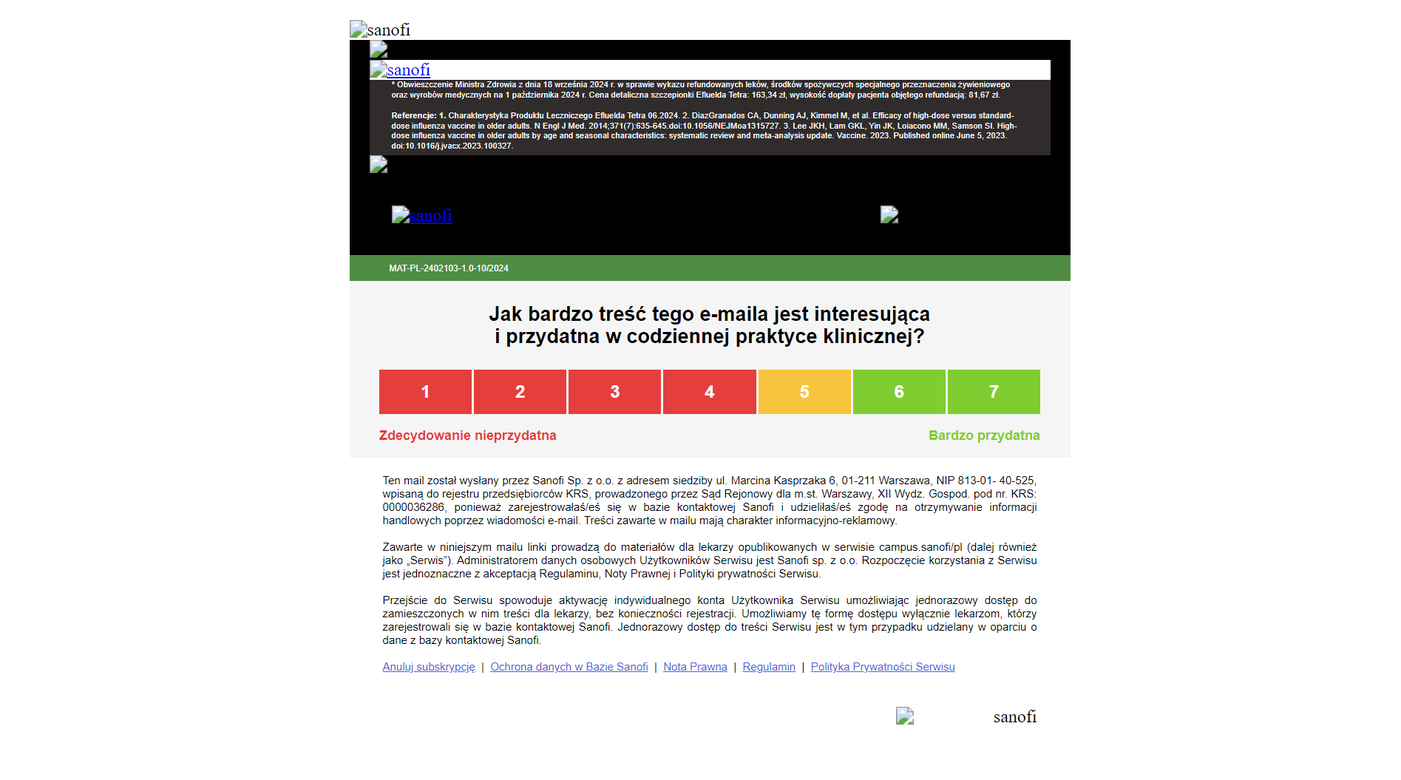
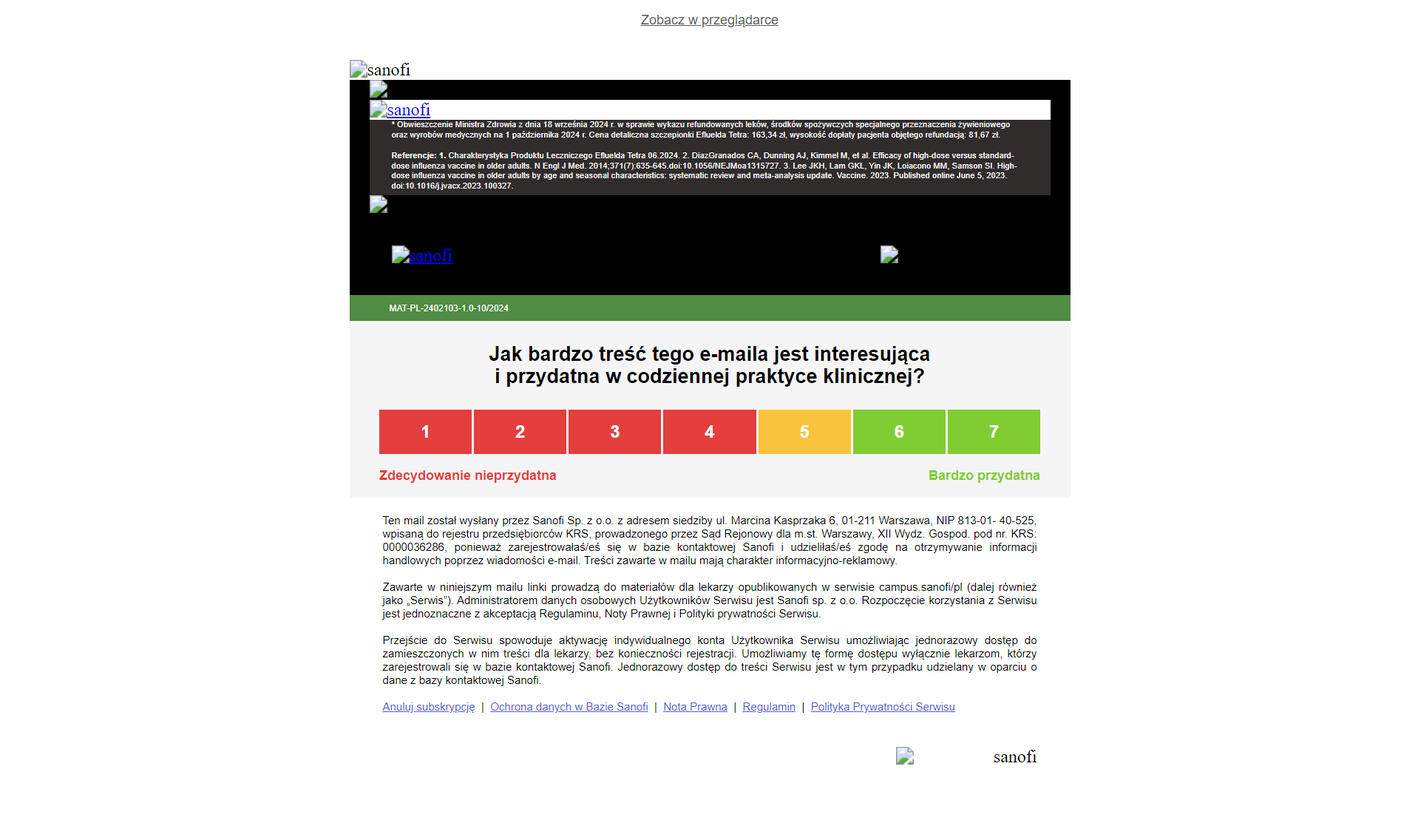
cfg changed

Changed region(s): [[0.2491, 0.0, 0.7784, 0.5763], [0.2491, 0.6066, 0.7472, 0.9403], [0.7161, 0.8796, 0.7472, 0.9403]]

diff --git a/export/index.html b/export/index.html
@@ -1,1 +1,40 @@
-<!DOCTYPE html><html><head><title>C05860_EflueldaTetra_24proc_mniej_przypadków_grypy_os_starsze_HQ</title><meta charset="utf-8"></head><body><!--[if (gte mso 9)(IE)]><center><table><tr><td width="650"><![endif]--><table width="650" border="0" cellpadding="0" cellspacing="0" style="margin: 0 auto"><tr><td><table width="650" border="0" cellpadding="0" cellspacing="0" style="margin: 0 auto" bgcolor="#ffffff"><tr><td width="30" height="10"></td><td style="font-family: Arial, Helvetica, sans-serif;text-align: justify; font-size:12px; font-weight: normal; color: #ffffff;"></td><td width="30"></td></tr></table><table width="650" border="0" cellpadding="0" cellspacing="0" style="margin: 0 auto" bgcolor="#FFFFFF"><tr> <td width="650"><img src="./images/top.jpg" alt="sanofi" title="sanofi" width="650" style="display: block; margin: 0; border: 0;"/></td></tr></table><table width="650" border="0" cellpadding="0" cellspacing="0" style="margin: 0 auto" bgcolor="#000000"><tr> <td width="18" bgcolor="#000000"></td><td width="614"><img src="./images/ramka.png" alt="sanofi" title="sanofi" width="614" style="display: block; margin: 0; border: 0;"/></td><td width="18" bgcolor="#000000"></td></tr></table><table width="650" border="0" cellpadding="0" cellspacing="0" style="margin: 0 auto" bgcolor="#FFFFFF"><tr> <td width="18" bgcolor="#000000"></td><td width="614"><a href="https://www.campus.sanofi/pl" target="blank"><img src="./images/button.png" alt="sanofi" title="sanofi" width="614" style="display: block; margin: 0; border: 0;"/></a></td><td width="18" bgcolor="#000000"></td></tr></table><table width="650" border="0" cellpadding="0" cellspacing="0" style="margin: 0 auto" bgcolor="#302c2c"><tr> <td width="18" bgcolor="#000000"></td><td width="20" bgcolor="#302c2c"></td><td width="574" style="color: white; font-family: Arial, sans-serif; font-size: 7.5px; line-height: 9px;">* Obwieszczenie Ministra Zdrowia z dnia 18 września 2024 r. w sprawie wykazu refundowanych leków, środków spożywczych specjalnego przeznaczenia żywieniowego oraz wyrobów medycznych na 1 października 2024 r. Cena detaliczna szczepionki Efluelda Tetra: 163,34 zł, wysokość dopłaty pacjenta objętego refundacją: 81,67 zł.</td><td width="20" bgcolor="#302c2c"></td><td width="18" bgcolor="#000000"></td></tr></table><table width="650" border="0" cellpadding="0" cellspacing="0" style="margin: 0 auto" bgcolor="#302c2c"><tr><td width="18" bgcolor="#000000"></td><td height="10"> </td><td width="18" bgcolor="#000000"></td></tr></table><table width="650" border="0" cellpadding="0" cellspacing="0" style="margin: 0 auto" bgcolor="#302c2c"><tr> <td width="18" bgcolor="#000000"></td><td width="20" bgcolor="#302c2c"></td><td width="574" style="color: white; font-family: Arial, sans-serif; font-size: 7.5px; line-height: 9px;"><b>Referencje: 1.</b> Charakterystyka Produktu Leczniczego Efluelda Tetra 06.2024. 2. DiazGranados CA, Dunning AJ, Kimmel M, et al. Efficacy of high-dose versus standard-<br>dose influenza vaccine in older adults. N Engl J Med. 2014;371(7):635-645.doi:10.1056/NEJMoa1315727. 3. Lee JKH, Lam GKL, Yin JK, Loiacono MM, Samson SI. High-<br>dose influenza vaccine in older adults by age and seasonal characteristics: systematic review and meta-analysis update. Vaccine. 2023. Published online June 5,&nbsp;2023. doi:10.1016/j.jvacx.2023.100327.</td><td width="20" bgcolor="#302c2c"></td><td width="18" bgcolor="#000000"></td></tr><tr><td width="18" bgcolor="#000000"></td><td width="20" bgcolor="#302c2c"></td><td width="574" height="4"> </td><td width="20" bgcolor="#302c2c"></td><td width="18" bgcolor="#000000"></td></tr></table><table width="650" border="0" cellpadding="0" cellspacing="0" style="margin: 0 auto" bgcolor="#000000"><tr> <td width="18" bgcolor="#000000"></td><td width="614"><img src="./images/ramk_dol.png" alt="sanofi" title="sanofi" width="614" style="display: block; margin: 0; border: 0;"/></td><td width="18" bgcolor="#000000"></td></tr></table><table width="650" border="0" cellpadding="0" cellspacing="0" style="margin: 0 auto" bgcolor="#000000"><tr> <td height="27"></td></tr></table><table width="650" border="0" cellpadding="0" cellspacing="0" style="margin: 0 auto" bgcolor="#000000"><tr> <td width="38"></td><td width="271"><a href="https://dev.sparkwarsaw.pl/sil-manager/preview/2y13ajNN9sYeG5jUJHWzOo3u5rr6vkUlCRSICxResA9yvojFXBrC" target="blank"><img src="./images/button2.png" alt="sanofi" title="sanofi" width="271" style="display: block; margin: 0; border: 0;"/></a></td><td width="170"></td><td width="144"><img src="./images/logo_white.png" alt="sanofi" title="sanofi" width="144" style="display: block; margin: 0; border: 0;"/></td><td width="27"></td></tr></table><table width="650" border="0" cellpadding="0" cellspacing="0" style="margin: 0 auto" bgcolor="#000000"><tr> <td height="27"></td></tr></table><table width="650" border="0" cellpadding="0" cellspacing="0" style="margin: 0 auto" bgcolor="#508c44"><tr><td height="7"></td><td></td></tr><tr> <td width="36"></td><td width="614" style="font-family:ArialMT,Helvetica,sans-serif; font-size:8px; text-align:left; color:#FFFFFF"><span>MAT-PL-2402103-1.0-10/2024</span></td></tr></table><table width="650" border="0" cellpadding="0" cellspacing="0" style="margin: 0 auto" bgcolor="#508c44"><tr><td height="7" bgcolor="#508c44"></td><td></td></tr></table><table width="650" border="0" cellpadding="0" cellspacing="0" style="margin: 0 auto" bgcolor="#F5F5F5"><tr> <td><table width="100%" border="0" cellpadding="0" cellspacing="0" bgcolor="#F5F5F5" style="margin: 0 auto"><tr><td height="20"></td></tr><tr><td valign="top" style="margin-left:auto; margin-right:auto; text-align:center; font-size: 18px; line-height: 20px; font-family:Arial, Helvetica, Verdana, sans-serif; color: #000000; font-weight: bold;"><span>Jak bardzo treść tego e-maila jest interesująca<br>i przydatna w codziennej praktyce klinicznej?</span></td></tr><tr><td height="20"></td></tr></table><table class="survey" width="100%" border="0" cellpadding="0" cellspacing="0" style="margin-left:auto; margin-right:auto; text-align:left; font-size: 16px; line-height: 19px; font-family:Arial, Helvetica, Verdana, sans-serif; color: #000000;"><tr><td width="27"></td><td><table class="survey" width="100%" border="0" cellpadding="0" cellspacing="0" style="font-family: Arial, Helvetica, sans-serif; font-weight: normal;width:100%;"><tr><td style="width:14%;min-width:25px"><a href="https://dta.eu.qualtrics.com/jfe/form/SV_02HIRZB8on1Cf7U?Country=PL&Q_Language=PL&TA={{User.SA_Department__c}}&utm_hcpid={{Account.Account_Identifier_vod__c}}&User={{User.EmployeeNumber}}&Function={{User.SA_Visibility__c}}&Brand={{Approved_Document_vod__c.Product_vod__r.Name}}&CN={{Approved_Document_vod__c.Name}}&Document_ID={{Approved_Document_vod__c.Document_Description_vod__c}}&Region={{User.Primary_Territory_vod__c}}&DA={{Approved_Document_vod__c.Detail_Group_vod__r.Name}}&amp;R=1"></a><table width="100%" border="0" cellpadding="0" cellspacing="0"><tr><td style="text-align:center" align="center" height="40" bgcolor="#E43E3D" width="100%"><a href="https://dta.eu.qualtrics.com/jfe/form/SV_02HIRZB8on1Cf7U?Country=PL&Q_Language=PL&TA={{User.SA_Department__c}}&utm_hcpid={{Account.Account_Identifier_vod__c}}&User={{User.EmployeeNumber}}&Function={{User.SA_Visibility__c}}&Brand={{Approved_Document_vod__c.Product_vod__r.Name}}&CN={{Approved_Document_vod__c.Name}}&Document_ID={{Approved_Document_vod__c.Document_Description_vod__c}}&Region={{User.Primary_Territory_vod__c}}&DA={{Approved_Document_vod__c.Detail_Group_vod__r.Name}}&amp;R=1" style="font-weight: bold; font-family:sans-serif; text-decoration: none; line-height:40px; width:100%;min-width:25px; display:inline-block;color: #ffffff">1</a></td></tr></table></td><td style="width: 2px;"></td><td style="width:14%;min-width:25px"><a href="https://dta.eu.qualtrics.com/jfe/form/SV_02HIRZB8on1Cf7U?Country=PL&Q_Language=PL&TA={{User.SA_Department__c}}&utm_hcpid={{Account.Account_Identifier_vod__c}}&User={{User.EmployeeNumber}}&Function={{User.SA_Visibility__c}}&Brand={{Approved_Document_vod__c.Product_vod__r.Name}}&CN={{Approved_Document_vod__c.Name}}&Document_ID={{Approved_Document_vod__c.Document_Description_vod__c}}&Region={{User.Primary_Territory_vod__c}}&DA={{Approved_Document_vod__c.Detail_Group_vod__r.Name}}&amp;R=2"></a><table width="100%" border="0" cellpadding="0" cellspacing="0"><tr><td style="text-align:center" align="center" height="40" bgcolor="#E43E3D" width="100%"><a href="https://dta.eu.qualtrics.com/jfe/form/SV_02HIRZB8on1Cf7U?Country=PL&Q_Language=PL&TA={{User.SA_Department__c}}&utm_hcpid={{Account.Account_Identifier_vod__c}}&User={{User.EmployeeNumber}}&Function={{User.SA_Visibility__c}}&Brand={{Approved_Document_vod__c.Product_vod__r.Name}}&CN={{Approved_Document_vod__c.Name}}&Document_ID={{Approved_Document_vod__c.Document_Description_vod__c}}&Region={{User.Primary_Territory_vod__c}}&DA={{Approved_Document_vod__c.Detail_Group_vod__r.Name}}&amp;R=2" style="font-weight: bold; font-family:sans-serif; text-decoration: none; line-height:40px; width:100%;min-width:25px; display:inline-block;color: #ffffff">2</a></td></tr></table></td><td style="width: 2px;"></td><td style="width:14%;min-width:25px"><a href="https://dta.eu.qualtrics.com/jfe/form/SV_02HIRZB8on1Cf7U?Country=PL&Q_Language=PL&TA={{User.SA_Department__c}}&utm_hcpid={{Account.Account_Identifier_vod__c}}&User={{User.EmployeeNumber}}&Function={{User.SA_Visibility__c}}&Brand={{Approved_Document_vod__c.Product_vod__r.Name}}&CN={{Approved_Document_vod__c.Name}}&Document_ID={{Approved_Document_vod__c.Document_Description_vod__c}}&Region={{User.Primary_Territory_vod__c}}&DA={{Approved_Document_vod__c.Detail_Group_vod__r.Name}}&amp;R=3"></a><table width="100%" border="0" cellpadding="0" cellspacing="0"><tr><td style="text-align:center" align="center" height="40" bgcolor="#E43E3D" width="100%"><a href="https://dta.eu.qualtrics.com/jfe/form/SV_02HIRZB8on1Cf7U?Country=PL&Q_Language=PL&TA={{User.SA_Department__c}}&utm_hcpid={{Account.Account_Identifier_vod__c}}&User={{User.EmployeeNumber}}&Function={{User.SA_Visibility__c}}&Brand={{Approved_Document_vod__c.Product_vod__r.Name}}&CN={{Approved_Document_vod__c.Name}}&Document_ID={{Approved_Document_vod__c.Document_Description_vod__c}}&Region={{User.Primary_Territory_vod__c}}&DA={{Approved_Document_vod__c.Detail_Group_vod__r.Name}}&amp;R=3" style="font-weight: bold; font-family:sans-serif; text-decoration: none; line-height:40px; width:100%;min-width:25px; display:inline-block;color: #ffffff">3</a></td></tr></table></td><td style="width: 2px;"></td><td style="width:14%;min-width:25px"><a href="https://dta.eu.qualtrics.com/jfe/form/SV_02HIRZB8on1Cf7U?Country=PL&Q_Language=PL&TA={{User.SA_Department__c}}&utm_hcpid={{Account.Account_Identifier_vod__c}}&User={{User.EmployeeNumber}}&Function={{User.SA_Visibility__c}}&Brand={{Approved_Document_vod__c.Product_vod__r.Name}}&CN={{Approved_Document_vod__c.Name}}&Document_ID={{Approved_Document_vod__c.Document_Description_vod__c}}&Region={{User.Primary_Territory_vod__c}}&DA={{Approved_Document_vod__c.Detail_Group_vod__r.Name}}&amp;R=4"></a><table width="100%" border="0" cellpadding="0" cellspacing="0"><tr><td style="text-align:center" align="center" height="40" bgcolor="#E43E3D" width="100%"><a href="https://dta.eu.qualtrics.com/jfe/form/SV_02HIRZB8on1Cf7U?Country=PL&Q_Language=PL&TA={{User.SA_Department__c}}&utm_hcpid={{Account.Account_Identifier_vod__c}}&User={{User.EmployeeNumber}}&Function={{User.SA_Visibility__c}}&Brand={{Approved_Document_vod__c.Product_vod__r.Name}}&CN={{Approved_Document_vod__c.Name}}&Document_ID={{Approved_Document_vod__c.Document_Description_vod__c}}&Region={{User.Primary_Territory_vod__c}}&DA={{Approved_Document_vod__c.Detail_Group_vod__r.Name}}&amp;R=4" style="font-weight: bold; font-family:sans-serif; text-decoration: none; line-height:40px; width:100%;min-width:25px; display:inline-block;color: #ffffff">4</a></td></tr></table></td><td style="width: 2px;"></td><td style="width:14%;min-width:25px"><a href="https://dta.eu.qualtrics.com/jfe/form/SV_02HIRZB8on1Cf7U?Country=PL&Q_Language=PL&TA={{User.SA_Department__c}}&utm_hcpid={{Account.Account_Identifier_vod__c}}&User={{User.EmployeeNumber}}&Function={{User.SA_Visibility__c}}&Brand={{Approved_Document_vod__c.Product_vod__r.Name}}&CN={{Approved_Document_vod__c.Name}}&Document_ID={{Approved_Document_vod__c.Document_Description_vod__c}}&Region={{User.Primary_Territory_vod__c}}&DA={{Approved_Document_vod__c.Detail_Group_vod__r.Name}}&amp;R=5"></a><table width="100%" border="0" cellpadding="0" cellspacing="0"><tr><td style="text-align:center" align="center" height="40" bgcolor="#F8C43D" width="100%"><a href="https://dta.eu.qualtrics.com/jfe/form/SV_02HIRZB8on1Cf7U?Country=PL&Q_Language=PL&TA={{User.SA_Department__c}}&utm_hcpid={{Account.Account_Identifier_vod__c}}&User={{User.EmployeeNumber}}&Function={{User.SA_Visibility__c}}&Brand={{Approved_Document_vod__c.Product_vod__r.Name}}&CN={{Approved_Document_vod__c.Name}}&Document_ID={{Approved_Document_vod__c.Document_Description_vod__c}}&Region={{User.Primary_Territory_vod__c}}&DA={{Approved_Document_vod__c.Detail_Group_vod__r.Name}}&amp;R=5" style="font-weight: bold; font-family:sans-serif; text-decoration: none; line-height:40px; width:100%;min-width:25px; display:inline-block;color: #ffffff">5</a></td></tr></table></td><td style="width: 2px;"></td><td style="width:14%;min-width:25px"><a href="https://dta.eu.qualtrics.com/jfe/form/SV_02HIRZB8on1Cf7U?Country=PL&Q_Language=PL&TA={{User.SA_Department__c}}&utm_hcpid={{Account.Account_Identifier_vod__c}}&User={{User.EmployeeNumber}}&Function={{User.SA_Visibility__c}}&Brand={{Approved_Document_vod__c.Product_vod__r.Name}}&CN={{Approved_Document_vod__c.Name}}&Document_ID={{Approved_Document_vod__c.Document_Description_vod__c}}&Region={{User.Primary_Territory_vod__c}}&DA={{Approved_Document_vod__c.Detail_Group_vod__r.Name}}&amp;R=6"></a><table width="100%" border="0" cellpadding="0" cellspacing="0"><tr><td style="text-align:center" align="center" height="40" bgcolor="#7FCD31" width="100%"><a href="https://dta.eu.qualtrics.com/jfe/form/SV_02HIRZB8on1Cf7U?Country=PL&Q_Language=PL&TA={{User.SA_Department__c}}&utm_hcpid={{Account.Account_Identifier_vod__c}}&User={{User.EmployeeNumber}}&Function={{User.SA_Visibility__c}}&Brand={{Approved_Document_vod__c.Product_vod__r.Name}}&CN={{Approved_Document_vod__c.Name}}&Document_ID={{Approved_Document_vod__c.Document_Description_vod__c}}&Region={{User.Primary_Territory_vod__c}}&DA={{Approved_Document_vod__c.Detail_Group_vod__r.Name}}&amp;R=6" style="font-weight: bold; font-family:sans-serif; text-decoration: none; line-height:40px; width:100%;min-width:25px; display:inline-block;color: #ffffff">6</a></td></tr></table></td><td style="width: 2px;"></td><td style="width:14%;min-width:25px"><a href="https://dta.eu.qualtrics.com/jfe/form/SV_02HIRZB8on1Cf7U?Country=PL&Q_Language=PL&TA={{User.SA_Department__c}}&utm_hcpid={{Account.Account_Identifier_vod__c}}&User={{User.EmployeeNumber}}&Function={{User.SA_Visibility__c}}&Brand={{Approved_Document_vod__c.Product_vod__r.Name}}&CN={{Approved_Document_vod__c.Name}}&Document_ID={{Approved_Document_vod__c.Document_Description_vod__c}}&Region={{User.Primary_Territory_vod__c}}&DA={{Approved_Document_vod__c.Detail_Group_vod__r.Name}}&amp;R=7"></a><table width="100%" border="0" cellpadding="0" cellspacing="0"><tr><td style="text-align:center" align="center" height="40" bgcolor="#7FCD31" width="100%"><a href="https://dta.eu.qualtrics.com/jfe/form/SV_02HIRZB8on1Cf7U?Country=PL&Q_Language=PL&TA={{User.SA_Department__c}}&utm_hcpid={{Account.Account_Identifier_vod__c}}&User={{User.EmployeeNumber}}&Function={{User.SA_Visibility__c}}&Brand={{Approved_Document_vod__c.Product_vod__r.Name}}&CN={{Approved_Document_vod__c.Name}}&Document_ID={{Approved_Document_vod__c.Document_Description_vod__c}}&Region={{User.Primary_Territory_vod__c}}&DA={{Approved_Document_vod__c.Detail_Group_vod__r.Name}}&amp;R=7" style="font-weight: bold; font-family:sans-serif; text-decoration: none; line-height:40px; width:100%;min-width:25px; display:inline-block;color: #ffffff">7</a></td></tr></table></td></tr></table><table class="survey" width="100%" border="0" cellpadding="0" cellspacing="0" style="font-family: Arial, Helvetica, sans-serif; font-weight: normal;width:100%; "><tr><td height="10"></td><td></td></tr><tr><td style="font-family: Arial, Helvetica, sans-serif;color:#E43E3D;font-size:12px;font-weight: bold" align="left"><span>Zdecydowanie nieprzydatna</span></td><td style="font-family: Arial, Helvetica, sans-serif;color:#7FCD31;font-size:12px;font-weight: bold" align="right"><span>Bardzo przydatna</span></td></tr><tr><td height="10"></td><td></td></tr></table></td><td width="27"></td></tr></table></td></tr></table><table width="650" border="0" cellpadding="0" cellspacing="0" style="margin: 0 auto" bgcolor="#F5F5F5"><tr> <td><table width="650" border="0" cellpadding="0" cellspacing="0" style="margin: 0 auto" bgcolor="#FFFFFF"><tr><td height="15"></td><td></td><td></td></tr><tr><td width="30"></td><td style="font-family:Arial,Helvetica,sans-serif; font-size:10px; line-height:12px; text-align:justify;"><span>Ten mail został wysłany przez Sanofi Sp. z o.o. z adresem siedziby ul. Marcina Kasprzaka 6, 01-211 Warszawa, NIP 813-01- 40-525, wpisaną do rejestru przedsiębiorców KRS, prowadzonego przez Sąd Rejonowy dla m.st. Warszawy, XII Wydz. Gospod. pod nr. KRS: 0000036286, ponieważ zarejestrowałaś/eś się w bazie kontaktowej Sanofi i udzieliłaś/eś zgodę na otrzymywanie informacji handlowych poprzez wiadomości e-mail. Treści zawarte w mailu mają charakter informacyjno-reklamowy.</span><br/><br/><span>Zawarte w niniejszym mailu linki prowadzą do materiałów dla lekarzy opublikowanych w serwisie <a href="campus.sanofi/pl" target="_blank" style="text-decoration:none; color:#000000">campus.sanofi/pl</a> (dalej również jako „Serwis”). Administratorem danych osobowych Użytkowników Serwisu jest Sanofi sp. z o.o. Rozpoczęcie korzystania z Serwisu jest jednoznaczne z akceptacją Regulaminu, Noty Prawnej i Polityki prywatności Serwisu.</span><br/><br/><span>Przejście do Serwisu spowoduje aktywację indywidualnego konta Użytkownika Serwisu umożliwiając jednorazowy dostęp do zamieszczonych w nim treści dla lekarzy, bez konieczności rejestracji. Umożliwiamy tę formę dostępu wyłącznie lekarzom, którzy zarejestrowali się w bazie kontaktowej Sanofi. Jednorazowy dostęp do treści Serwisu jest w tym przypadku udzielany w oparciu o dane z bazy kontaktowej Sanofi.</span><br/><br/><span><a href='{{unsubscribe_product_link}}' style='color: #4f5cd6;' title='Anuluj subskrypcję' target="_blank">Anuluj subskrypcję</a>&nbsp; | &nbsp;<a href='https://www.campus.sanofi/dam/jcr:a4820214-276b-4c7b-8d17-8cfd6f83e1ba/Klauzula%20informacyjna%20do%20bazy%20kontaktowej%20Sanofi%20sp.%20z%20o.o._02.04.2024_upd.pdf' style='color: #4f5cd6;' title='Ochrona danych w Bazie Sanofi' target="_blank">Ochrona danych w Bazie Sanofi</a>&nbsp; | &nbsp;<a href='https://www.campus.sanofi/pl/prawny/nota-prawna' style='color: #4f5cd6;' title='Nota Prawna' target="_blank">Nota Prawna</a>&nbsp; | &nbsp;<a href='https://www.campus.sanofi/pl/prawny/regulamin-serwisu-internetowego' style='color: #4f5cd6;' title='Regulamin' target="_blank">Regulamin</a>&nbsp; | &nbsp;<a href='https://www.campus.sanofi/pl/prawny/polityka-prywatnosci' style='color: #4f5cd6;' title='Polityka Prywatności Serwisu' target="_blank">Polityka Prywatności Serwisu</a></span></td><td width="30"></td></tr></table><table width="650" border="0" cellpadding="0" cellspacing="0" style="margin: 0 auto" bgcolor="#FFFFFF"><tr><td height="30"></td><td></td></tr><tr><td align="right"><img src="./images/logo_dol.png" alt="sanofi" title="sanofi" width="127" style="display: block; margin: 0; border: 0;"/></td><td width="30"></td></tr><tr><td height="30"></td><td></td></tr></table></td></tr></table><table width="650" border="0" cellpadding="0" cellspacing="0" style="margin: 0 auto" bgcolor="#ffffff"><tr><td width="30" height="10"></td><td style="font-family: Arial, Helvetica, sans-serif;text-align: justify; font-size:12px; font-weight: normal; color: #ffffff;"></td><td width="30"></td></tr></table></td></tr></table><!--[if mso]></td></tr></table></center><![endif]--></body></html>
+<!DOCTYPE html><html><head><title>C05860_EflueldaTetra_24proc_mniej_przypadków_grypy_os_starsze_HQ</title><meta charset="utf-8"></head><body><div style="display:none"><a href="%%profile_center_url%%">.</a><a href="%%subscription_center_url%%">.</a><a href="%%unsub_center_url%%">.</a></div>
+<div style="font-size: 0; color: #ffffff">%%[set @Sanofi_ID = [Sanofi_ID] ]%%
+%%[set @Account_ID = [Account_ID] ]%%
+%%[set @utms = concat('&utm_hcpid=', @Sanofi_ID, '&actid=', @Account_ID, '&Q_Language=PL') ]%%
+%%[ SET @utm_campaign = __AdditionalEmailAttribute1 ]%%
+%%[ SET @utm_source = __AdditionalEmailAttribute2 ]%%
+
+%%[set @SubscriberKey = _subscriberkey]%%
+%%[set @EventDate = GetSendTime()]%%
+%%[set @View_Link = view_email_url]%%
+%%[set @Email_Id = _emailid]%%
+%%[set @Email_Name = emailname_]%%
+%%[set @Email = emailaddr]%%
+
+%%[if empty(__AdditionalEmailAttribute2) OR empty(__AdditionalEmailAttribute1)  then
+RaiseError('Ops, looks like you missed Campaign code or Exposure Code!', false)]%%
+%%[endif]%%
+
+%%[set @rows = LookupRows("ENT.PROD_POL_Metadata","CampaignCode", @Utm_Campaign)
+set @rowCount = rowcount(@rows)
+if @rowCount == 0 then
+RaiseError("This campaign Code is not listed", false)
+endif]%%
+
+%%[set @rows = LookupRows("ENT.PROD_POL_Metadata","ExposureCode", @utm_source)
+set @rowCount = rowcount(@rows)
+if @rowCount == 0 then
+RaiseError("This exposure Code is not listed", false)
+endif]%%
+
+%%[ SET @countryCode = "PL"
+SET @language = "PL"
+SET @email = [Email Address]
+SET @subKey = AttributeValue("_subscriberkey")
+SET @jobID = [jobid]
+SET @subID = AttributeValue("subscriberid")
+SET @memberID = AttributeValue("memberid")
+
+SET @url = CloudPagesURl(191,"countryCode",@countryCode,"email",@email,"subscriberkey",@subKey,"jobid",@jobID,"language",@language,"subID",@subID,"memberID",@memberID) ]%%
+</div><custom name="opencounter" type="tracking"/><table width="100%" border="0" cellpadding="0" cellspacing="0"><tr><td align="center"><a href="%%view_email_url%%" style="font-family:Arial, Helvetica, Verdana, sans-serif; color: #595959; font-size: 12px;">Zobacz w przeglądarce</a><br><br></td></tr></table><!--[if (gte mso 9)(IE)]><center><table><tr><td width="650"><![endif]--><table width="650" border="0" cellpadding="0" cellspacing="0" style="margin: 0 auto"><tr><td><table width="650" border="0" cellpadding="0" cellspacing="0" style="margin: 0 auto" bgcolor="#ffffff"><tr><td width="30" height="10"></td><td style="font-family: Arial, Helvetica, sans-serif;text-align: justify; font-size:12px; font-weight: normal; color: #ffffff;"></td><td width="30"></td></tr></table><table width="650" border="0" cellpadding="0" cellspacing="0" style="margin: 0 auto" bgcolor="#FFFFFF"><tr> <td width="650"><img src="./images/top.jpg" alt="sanofi" title="sanofi" width="650" style="display: block; margin: 0; border: 0;"/></td></tr></table><table width="650" border="0" cellpadding="0" cellspacing="0" style="margin: 0 auto" bgcolor="#000000"><tr> <td width="18" bgcolor="#000000"></td><td width="614"><img src="./images/ramka.png" alt="sanofi" title="sanofi" width="614" style="display: block; margin: 0; border: 0;"/></td><td width="18" bgcolor="#000000"></td></tr></table><table width="650" border="0" cellpadding="0" cellspacing="0" style="margin: 0 auto" bgcolor="#FFFFFF"><tr> <td width="18" bgcolor="#000000"></td><td width="614"><a href="https://www.campus.sanofi/pl" target="blank"><img src="./images/button.png" alt="sanofi" title="sanofi" width="614" style="display: block; margin: 0; border: 0;"/></a></td><td width="18" bgcolor="#000000"></td></tr></table><table width="650" border="0" cellpadding="0" cellspacing="0" style="margin: 0 auto" bgcolor="#302c2c"><tr> <td width="18" bgcolor="#000000"></td><td width="20" bgcolor="#302c2c"></td><td width="574" style="color: white; font-family: Arial, sans-serif; font-size: 7.5px; line-height: 9px;">* Obwieszczenie Ministra Zdrowia z dnia 18 września 2024 r. w sprawie wykazu refundowanych leków, środków spożywczych specjalnego przeznaczenia żywieniowego oraz wyrobów medycznych na 1 października 2024 r. Cena detaliczna szczepionki Efluelda Tetra: 163,34 zł, wysokość dopłaty pacjenta objętego refundacją: 81,67 zł.</td><td width="20" bgcolor="#302c2c"></td><td width="18" bgcolor="#000000"></td></tr></table><table width="650" border="0" cellpadding="0" cellspacing="0" style="margin: 0 auto" bgcolor="#302c2c"><tr><td width="18" bgcolor="#000000"></td><td height="10"> </td><td width="18" bgcolor="#000000"></td></tr></table><table width="650" border="0" cellpadding="0" cellspacing="0" style="margin: 0 auto" bgcolor="#302c2c"><tr> <td width="18" bgcolor="#000000"></td><td width="20" bgcolor="#302c2c"></td><td width="574" style="color: white; font-family: Arial, sans-serif; font-size: 7.5px; line-height: 9px;"><b>Referencje: 1.</b> Charakterystyka Produktu Leczniczego Efluelda Tetra 06.2024. 2. DiazGranados CA, Dunning AJ, Kimmel M, et al. Efficacy of high-dose versus standard-<br>dose influenza vaccine in older adults. N Engl J Med. 2014;371(7):635-645.doi:10.1056/NEJMoa1315727. 3. Lee JKH, Lam GKL, Yin JK, Loiacono MM, Samson SI. High-<br>dose influenza vaccine in older adults by age and seasonal characteristics: systematic review and meta-analysis update. Vaccine. 2023. Published online June 5,&nbsp;2023. doi:10.1016/j.jvacx.2023.100327.</td><td width="20" bgcolor="#302c2c"></td><td width="18" bgcolor="#000000"></td></tr><tr><td width="18" bgcolor="#000000"></td><td width="20" bgcolor="#302c2c"></td><td width="574" height="4"> </td><td width="20" bgcolor="#302c2c"></td><td width="18" bgcolor="#000000"></td></tr></table><table width="650" border="0" cellpadding="0" cellspacing="0" style="margin: 0 auto" bgcolor="#000000"><tr> <td width="18" bgcolor="#000000"></td><td width="614"><img src="./images/ramk_dol.png" alt="sanofi" title="sanofi" width="614" style="display: block; margin: 0; border: 0;"/></td><td width="18" bgcolor="#000000"></td></tr><tr> <td height="27"></td><td></td><td></td></tr></table><table width="650" border="0" cellpadding="0" cellspacing="0" style="margin: 0 auto" bgcolor="#000000"><tr> <td width="38"></td><td width="271"><a href="https://dev.sparkwarsaw.pl/sil-manager/preview/2y13ajNN9sYeG5jUJHWzOo3u5rr6vkUlCRSICxResA9yvojFXBrC" target="blank"><img src="./images/button2.png" alt="sanofi" title="sanofi" width="271" style="display: block; margin: 0; border: 0;"/></a></td><td width="170"></td><td width="144"><img src="./images/logo_white.png" alt="sanofi" title="sanofi" width="144" style="display: block; margin: 0; border: 0;"/></td><td width="27"></td></tr><tr> <td height="27"></td><td> </td><td> </td><td> </td><td></td></tr><tr bgcolor="#508c44"><td height="7"></td><td></td><td> </td><td> </td><td></td></tr></table><table width="650" border="0" cellpadding="0" cellspacing="0" style="margin: 0 auto" bgcolor="#508c44"><tr> <td width="36"></td><td width="614" style="font-family:ArialMT,Helvetica,sans-serif; font-size:8px; text-align:left; color:#FFFFFF"><span>MAT-PL-2402103-1.0-10/2024</span></td></tr></table><table width="650" border="0" cellpadding="0" cellspacing="0" style="margin: 0 auto" bgcolor="#508c44"><tr><td height="7" bgcolor="#508c44"></td><td></td></tr></table><table width="650" border="0" cellpadding="0" cellspacing="0" style="margin: 0 auto" bgcolor="#F5F5F5"><tr> <td><table width="100%" border="0" cellpadding="0" cellspacing="0" bgcolor="#F5F5F5" style="margin: 0 auto"><tr><td height="20"></td></tr><tr><td valign="top" style="margin-left:auto; margin-right:auto; text-align:center; font-size: 18px; line-height: 20px; font-family:Arial, Helvetica, Verdana, sans-serif; color: #000000; font-weight: bold;"><span>Jak bardzo treść tego e-maila jest interesująca<br>i przydatna w codziennej praktyce klinicznej?</span></td></tr><tr><td height="20"></td></tr></table><table class="survey" width="100%" border="0" cellpadding="0" cellspacing="0" style="margin-left:auto; margin-right:auto; text-align:left; font-size: 16px; line-height: 19px; font-family:Arial, Helvetica, Verdana, sans-serif; color: #000000;"><tr><td width="27"></td><td><table class="survey" width="100%" border="0" cellpadding="0" cellspacing="0" style="font-family: Arial, Helvetica, sans-serif; font-weight: normal;width:100%;"><tr><td style="width:14%;min-width:25px"><a href="https://dta.eu.qualtrics.com/jfe/form/SV_efWbOu2lUz2aZpQ?CO=PL&Q_Language=PL&CN={{ContentName}}&BU={{BusinessUnit}}&TA={{User.SA_Department__c}}&utm_hcpid={{Account.Account_Identifier_vod__c}}&User={{User.EmployeeNumber}}&Function={{User.SA_Visibility__c}}&amp;R=1"></a><table width="100%" border="0" cellpadding="0" cellspacing="0"><tr><td style="text-align:center" align="center" height="40" bgcolor="#E43E3D" width="100%"><a href="https://dta.eu.qualtrics.com/jfe/form/SV_efWbOu2lUz2aZpQ?CO=PL&Q_Language=PL&CN={{ContentName}}&BU={{BusinessUnit}}&TA={{User.SA_Department__c}}&utm_hcpid={{Account.Account_Identifier_vod__c}}&User={{User.EmployeeNumber}}&Function={{User.SA_Visibility__c}}&amp;R=1" style="font-weight: bold; font-family:sans-serif; text-decoration: none; line-height:40px; width:100%;min-width:25px; display:inline-block;color: #ffffff">1</a></td></tr></table></td><td style="width: 2px;"></td><td style="width:14%;min-width:25px"><a href="https://dta.eu.qualtrics.com/jfe/form/SV_efWbOu2lUz2aZpQ?CO=PL&Q_Language=PL&CN={{ContentName}}&BU={{BusinessUnit}}&TA={{User.SA_Department__c}}&utm_hcpid={{Account.Account_Identifier_vod__c}}&User={{User.EmployeeNumber}}&Function={{User.SA_Visibility__c}}&amp;R=2"></a><table width="100%" border="0" cellpadding="0" cellspacing="0"><tr><td style="text-align:center" align="center" height="40" bgcolor="#E43E3D" width="100%"><a href="https://dta.eu.qualtrics.com/jfe/form/SV_efWbOu2lUz2aZpQ?CO=PL&Q_Language=PL&CN={{ContentName}}&BU={{BusinessUnit}}&TA={{User.SA_Department__c}}&utm_hcpid={{Account.Account_Identifier_vod__c}}&User={{User.EmployeeNumber}}&Function={{User.SA_Visibility__c}}&amp;R=2" style="font-weight: bold; font-family:sans-serif; text-decoration: none; line-height:40px; width:100%;min-width:25px; display:inline-block;color: #ffffff">2</a></td></tr></table></td><td style="width: 2px;"></td><td style="width:14%;min-width:25px"><a href="https://dta.eu.qualtrics.com/jfe/form/SV_efWbOu2lUz2aZpQ?CO=PL&Q_Language=PL&CN={{ContentName}}&BU={{BusinessUnit}}&TA={{User.SA_Department__c}}&utm_hcpid={{Account.Account_Identifier_vod__c}}&User={{User.EmployeeNumber}}&Function={{User.SA_Visibility__c}}&amp;R=3"></a><table width="100%" border="0" cellpadding="0" cellspacing="0"><tr><td style="text-align:center" align="center" height="40" bgcolor="#E43E3D" width="100%"><a href="https://dta.eu.qualtrics.com/jfe/form/SV_efWbOu2lUz2aZpQ?CO=PL&Q_Language=PL&CN={{ContentName}}&BU={{BusinessUnit}}&TA={{User.SA_Department__c}}&utm_hcpid={{Account.Account_Identifier_vod__c}}&User={{User.EmployeeNumber}}&Function={{User.SA_Visibility__c}}&amp;R=3" style="font-weight: bold; font-family:sans-serif; text-decoration: none; line-height:40px; width:100%;min-width:25px; display:inline-block;color: #ffffff">3</a></td></tr></table></td><td style="width: 2px;"></td><td style="width:14%;min-width:25px"><a href="https://dta.eu.qualtrics.com/jfe/form/SV_efWbOu2lUz2aZpQ?CO=PL&Q_Language=PL&CN={{ContentName}}&BU={{BusinessUnit}}&TA={{User.SA_Department__c}}&utm_hcpid={{Account.Account_Identifier_vod__c}}&User={{User.EmployeeNumber}}&Function={{User.SA_Visibility__c}}&amp;R=4"></a><table width="100%" border="0" cellpadding="0" cellspacing="0"><tr><td style="text-align:center" align="center" height="40" bgcolor="#E43E3D" width="100%"><a href="https://dta.eu.qualtrics.com/jfe/form/SV_efWbOu2lUz2aZpQ?CO=PL&Q_Language=PL&CN={{ContentName}}&BU={{BusinessUnit}}&TA={{User.SA_Department__c}}&utm_hcpid={{Account.Account_Identifier_vod__c}}&User={{User.EmployeeNumber}}&Function={{User.SA_Visibility__c}}&amp;R=4" style="font-weight: bold; font-family:sans-serif; text-decoration: none; line-height:40px; width:100%;min-width:25px; display:inline-block;color: #ffffff">4</a></td></tr></table></td><td style="width: 2px;"></td><td style="width:14%;min-width:25px"><a href="https://dta.eu.qualtrics.com/jfe/form/SV_efWbOu2lUz2aZpQ?CO=PL&Q_Language=PL&CN={{ContentName}}&BU={{BusinessUnit}}&TA={{User.SA_Department__c}}&utm_hcpid={{Account.Account_Identifier_vod__c}}&User={{User.EmployeeNumber}}&Function={{User.SA_Visibility__c}}&amp;R=5"></a><table width="100%" border="0" cellpadding="0" cellspacing="0"><tr><td style="text-align:center" align="center" height="40" bgcolor="#F8C43D" width="100%"><a href="https://dta.eu.qualtrics.com/jfe/form/SV_efWbOu2lUz2aZpQ?CO=PL&Q_Language=PL&CN={{ContentName}}&BU={{BusinessUnit}}&TA={{User.SA_Department__c}}&utm_hcpid={{Account.Account_Identifier_vod__c}}&User={{User.EmployeeNumber}}&Function={{User.SA_Visibility__c}}&amp;R=5" style="font-weight: bold; font-family:sans-serif; text-decoration: none; line-height:40px; width:100%;min-width:25px; display:inline-block;color: #ffffff">5</a></td></tr></table></td><td style="width: 2px;"></td><td style="width:14%;min-width:25px"><a href="https://dta.eu.qualtrics.com/jfe/form/SV_efWbOu2lUz2aZpQ?CO=PL&Q_Language=PL&CN={{ContentName}}&BU={{BusinessUnit}}&TA={{User.SA_Department__c}}&utm_hcpid={{Account.Account_Identifier_vod__c}}&User={{User.EmployeeNumber}}&Function={{User.SA_Visibility__c}}&amp;R=6"></a><table width="100%" border="0" cellpadding="0" cellspacing="0"><tr><td style="text-align:center" align="center" height="40" bgcolor="#7FCD31" width="100%"><a href="https://dta.eu.qualtrics.com/jfe/form/SV_efWbOu2lUz2aZpQ?CO=PL&Q_Language=PL&CN={{ContentName}}&BU={{BusinessUnit}}&TA={{User.SA_Department__c}}&utm_hcpid={{Account.Account_Identifier_vod__c}}&User={{User.EmployeeNumber}}&Function={{User.SA_Visibility__c}}&amp;R=6" style="font-weight: bold; font-family:sans-serif; text-decoration: none; line-height:40px; width:100%;min-width:25px; display:inline-block;color: #ffffff">6</a></td></tr></table></td><td style="width: 2px;"></td><td style="width:14%;min-width:25px"><a href="https://dta.eu.qualtrics.com/jfe/form/SV_efWbOu2lUz2aZpQ?CO=PL&Q_Language=PL&CN={{ContentName}}&BU={{BusinessUnit}}&TA={{User.SA_Department__c}}&utm_hcpid={{Account.Account_Identifier_vod__c}}&User={{User.EmployeeNumber}}&Function={{User.SA_Visibility__c}}&amp;R=7"></a><table width="100%" border="0" cellpadding="0" cellspacing="0"><tr><td style="text-align:center" align="center" height="40" bgcolor="#7FCD31" width="100%"><a href="https://dta.eu.qualtrics.com/jfe/form/SV_efWbOu2lUz2aZpQ?CO=PL&Q_Language=PL&CN={{ContentName}}&BU={{BusinessUnit}}&TA={{User.SA_Department__c}}&utm_hcpid={{Account.Account_Identifier_vod__c}}&User={{User.EmployeeNumber}}&Function={{User.SA_Visibility__c}}&amp;R=7" style="font-weight: bold; font-family:sans-serif; text-decoration: none; line-height:40px; width:100%;min-width:25px; display:inline-block;color: #ffffff">7</a></td></tr></table></td></tr></table><table class="survey" width="100%" border="0" cellpadding="0" cellspacing="0" style="font-family: Arial, Helvetica, sans-serif; font-weight: normal;width:100%; "><tr><td height="10"></td><td></td></tr><tr><td style="font-family: Arial, Helvetica, sans-serif;color:#E43E3D;font-size:12px;font-weight: bold" align="left"><span>Zdecydowanie nieprzydatna</span></td><td style="font-family: Arial, Helvetica, sans-serif;color:#7FCD31;font-size:12px;font-weight: bold" align="right"><span>Bardzo przydatna</span></td></tr><tr><td height="10"></td><td></td></tr></table></td><td width="27"></td></tr></table></td></tr></table><table width="650" border="0" cellpadding="0" cellspacing="0" style="margin: 0 auto" bgcolor="#F5F5F5"><tr> <td><table width="650" border="0" cellpadding="0" cellspacing="0" style="margin: 0 auto" bgcolor="#FFFFFF"><tr><td height="15"></td><td></td><td></td></tr><tr><td width="30"></td><td style="font-family:Arial,Helvetica,sans-serif; font-size:10px; line-height:12px; text-align:justify;"><span>Ten mail został wysłany przez Sanofi Sp. z o.o. z adresem siedziby ul. Marcina Kasprzaka 6, 01-211 Warszawa, NIP 813-01- 40-525, wpisaną do rejestru przedsiębiorców KRS, prowadzonego przez Sąd Rejonowy dla m.st. Warszawy, XII Wydz. Gospod. pod nr. KRS: 0000036286, ponieważ zarejestrowałaś/eś się w bazie kontaktowej Sanofi i udzieliłaś/eś zgodę na otrzymywanie informacji handlowych poprzez wiadomości e-mail. Treści zawarte w mailu mają charakter informacyjno-reklamowy.</span><br/><br/><span>Zawarte w niniejszym mailu linki prowadzą do materiałów dla lekarzy opublikowanych w serwisie <a href="campus.sanofi/pl" target="_blank" style="text-decoration:none; color:#000000">campus.sanofi/pl</a> (dalej również jako „Serwis”). Administratorem danych osobowych Użytkowników Serwisu jest Sanofi sp. z o.o. Rozpoczęcie korzystania z Serwisu jest jednoznaczne z akceptacją Regulaminu, Noty Prawnej i Polityki prywatności Serwisu.</span><br/><br/><span>Przejście do Serwisu spowoduje aktywację indywidualnego konta Użytkownika Serwisu umożliwiając jednorazowy dostęp do zamieszczonych w nim treści dla lekarzy, bez konieczności rejestracji. Umożliwiamy tę formę dostępu wyłącznie lekarzom, którzy zarejestrowali się w bazie kontaktowej Sanofi. Jednorazowy dostęp do treści Serwisu jest w tym przypadku udzielany w oparciu o dane z bazy kontaktowej Sanofi.</span><br/><br/><span><a href='%%=RedirectTo(@url)=%%' style='color: #4f5cd6;' title='Anuluj subskrypcję' target="_blank">Anuluj subskrypcję</a>&nbsp; | &nbsp;<a href='https://www.campus.sanofi/dam/jcr:a4820214-276b-4c7b-8d17-8cfd6f83e1ba/Klauzula%20informacyjna%20do%20bazy%20kontaktowej%20Sanofi%20sp.%20z%20o.o._02.04.2024_upd.pdf' style='color: #4f5cd6;' title='Ochrona danych w Bazie Sanofi' target="_blank">Ochrona danych w Bazie Sanofi</a>&nbsp; | &nbsp;<a href='https://www.campus.sanofi/pl/prawny/nota-prawna' style='color: #4f5cd6;' title='Nota Prawna' target="_blank">Nota Prawna</a>&nbsp; | &nbsp;<a href='https://www.campus.sanofi/pl/prawny/regulamin-serwisu-internetowego' style='color: #4f5cd6;' title='Regulamin' target="_blank">Regulamin</a>&nbsp; | &nbsp;<a href='https://www.campus.sanofi/pl/prawny/polityka-prywatnosci' style='color: #4f5cd6;' title='Polityka Prywatności Serwisu' target="_blank">Polityka Prywatności Serwisu</a></span></td><td width="30"></td></tr></table><table width="650" border="0" cellpadding="0" cellspacing="0" style="margin: 0 auto" bgcolor="#FFFFFF"><tr><td height="30"></td><td></td></tr><tr><td align="right"><img src="./images/logo_dol.png" alt="sanofi" title="sanofi" width="127" style="display: block; margin: 0; border: 0;"/></td><td width="30"></td></tr><tr><td height="30"></td><td></td></tr></table></td></tr></table><table width="650" border="0" cellpadding="0" cellspacing="0" style="margin: 0 auto" bgcolor="#ffffff"><tr><td width="30" height="10"></td><td style="font-family: Arial, Helvetica, sans-serif;text-align: justify; font-size:12px; font-weight: normal; color: #ffffff;"></td><td width="30"></td></tr></table></td></tr></table><!--[if mso]></td></tr></table></center><![endif]--><img src="https://click.news.email.sanofi/open.aspx?ffcb10-fefd15757c6704-fe9911747762067c77-fe3e117175640479761771-ff9b1573-fe5c157077660c747d11-ffce15&d=500002&bmt=0" width="1" height="1" alt=""></body></html>

diff --git a/config/configuration.js b/config/configuration.js
@@ -2,7 +2,7 @@ export const config = {
 	RTE_NAME: 'C05860_EflueldaTetra_24proc_mniej_przypadków_grypy_os_starsze_HQ',
 	RTE_ALT: 'sanofi',
 	RTE_PREHEADER: '',
-	RTE_TYPE: 'VEEVA', //POSSIBLE VALUES: VEEVA, SFMC, PITCHER, MASSMAILING, WP, INIS
+	RTE_TYPE: 'SFMC', //POSSIBLE VALUES: VEEVA, SFMC, PITCHER, MASSMAILING, WP, INIS
 	RTE_SANOFI: 'YES', // POSSIBLE VALUES: YES, NO - Controls whether to include survey links
  	RTE_DIVISION:'', // ONLY FOR SFMC SANOFI, POSSIBLE VALUES: GENMED, VACCINES, SPECIALITY_CARE
 	RTE_UNSUBSCRIBE_MAIL: 'mailto:noreply@example.com', //ONLY FOR MASSMAILING
